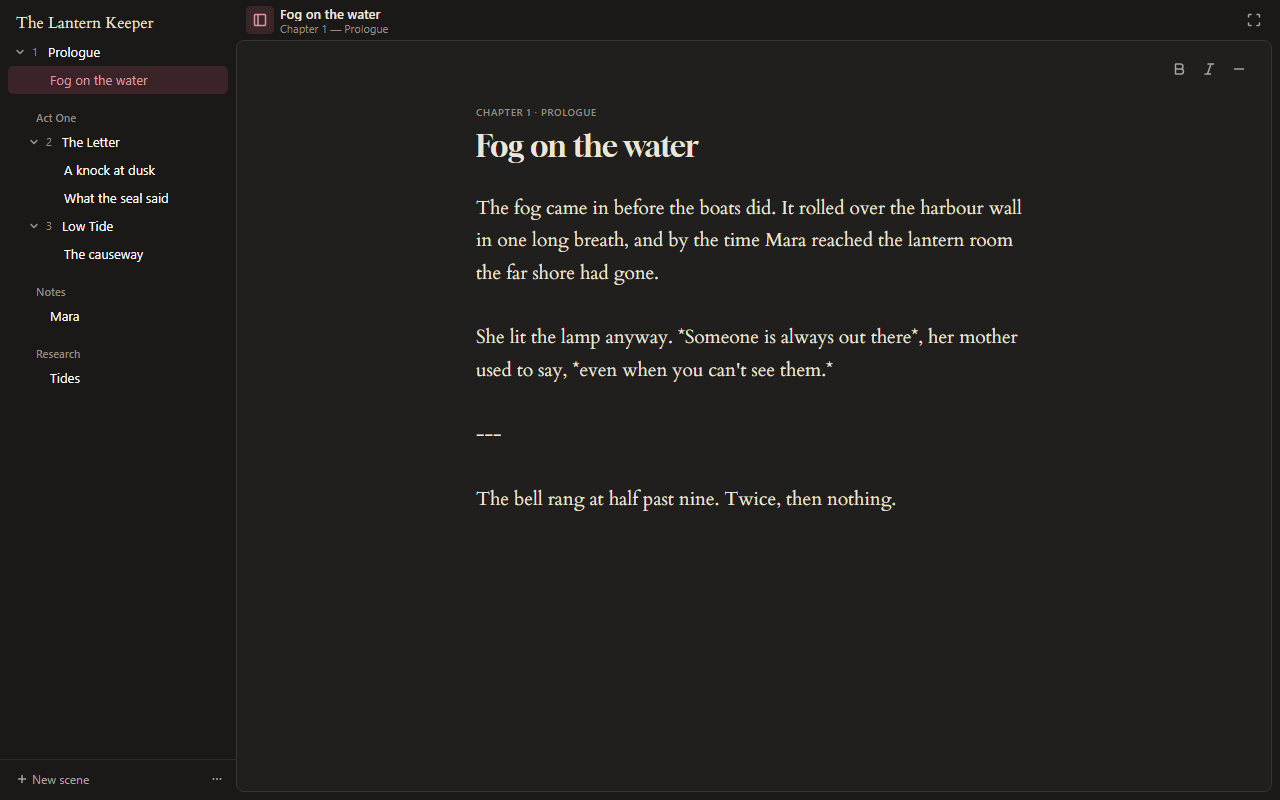
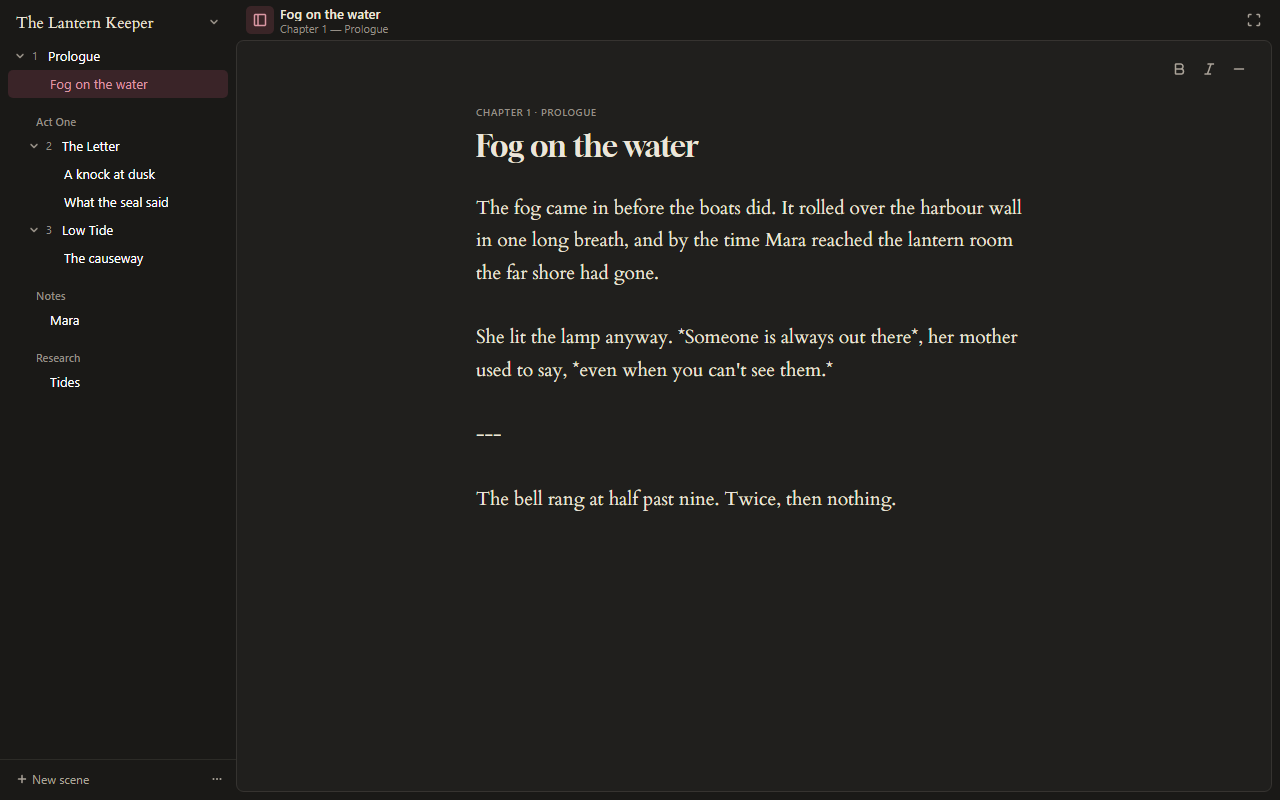
feat(workspace): close the project from the project menu
The project's title opens the prototype's project menu, with Close project. It writes what's unsaved first, and stays open with a notice when a change still can't be written.

Changed region(s): [[0.0, 0.0625, 0.1875, 0.4062], [0.0312, 0.4375, 0.0625, 0.5]]

diff --git a/src/Hedgequill.Desktop/Views/MainWindow.axaml.cs b/src/Hedgequill.Desktop/Views/MainWindow.axaml.cs
@@ -54,6 +54,22 @@ public partial class MainWindow : Window
         base.OnClosing(e);
     }
 
+    /// <summary>Close project: writes what's unsaved, then shows the Welcome screen. Text that can't be written keeps the project open, with its state showing why.</summary>
+    public void CloseProject()
+    {
+        if (_saver is { } saver)
+        {
+            saver.Flush();
+            if (saver.HasUnsaved)
+            {
+                Notice.Show("The project is still open", "Some changes couldn't be written to disk yet. Retry, or save a copy, from the save state at the top.");
+                return;
+            }
+        }
+
+        ShowWelcome();
+    }
+
     public void ShowWelcome()
     {
         _saver?.Flush();
@@ -92,6 +108,7 @@ public partial class MainWindow : Window
         var saver = new Saver(project, workspace.Commit, TimeSpan.FromMilliseconds(700));
         workspace.Edited += saver.Edited;
         workspace.FlushRequested += saver.Flush;
+        workspace.CloseRequested += CloseProject;
         saver.Reloaded += workspace.Reload;
         var status = new SaveStatus();
         status.Attach(saver, () => workspace.OpenPath);

diff --git a/src/Hedgequill.Desktop/Views/WorkspaceView.axaml.cs b/src/Hedgequill.Desktop/Views/WorkspaceView.axaml.cs
@@ -75,6 +75,7 @@ public partial class WorkspaceView : UserControl
         Navigator.AddHandler(PointerReleasedEvent, OnRelease, RoutingStrategies.Tunnel);
         Navigator.AddHandler(PointerCaptureLostEvent, (_, _) => EndDrag());
         NewScene.Click += (_, _) => AddScene();
+        ProjectMenu.Click += (_, _) => new MenuFlyout { ItemsSource = new List<Control> { Item("Close project", () => CloseRequested?.Invoke()) } }.ShowAt(ProjectMenu);
         NavigatorToggle.Click += (_, _) => ToggleNavigator();
         FocusButton.Click += (_, _) => ToggleFocus();
         Manuscript.OpenRequested += Select;
@@ -97,6 +98,9 @@ public partial class WorkspaceView : UserControl
 
     /// <summary>The open scene's or page's text changed in the editor.</summary>
     public event Action<Node>? Edited;
+
+    /// <summary>Close project, from the project menu: back to the Welcome screen.</summary>
+    public event Action? CloseRequested;
 
     /// <summary>Before anything moves or closes a file: write what's in the editor.</summary>
     public event Action? FlushRequested;

diff --git a/tests/Hedgequill.Tests/Desktop/EditorTests.cs b/tests/Hedgequill.Tests/Desktop/EditorTests.cs
@@ -231,6 +231,18 @@ public sealed class EditorTests : IDisposable
     });
 
     [Fact]
+    public Task Close_project_saves_and_goes_back_to_Welcome() => OnEditor((window, workspace, editor) =>
+    {
+        window.KeyTextInput("Last words. ");
+
+        window.CloseProject();
+
+        Assert.IsType<WelcomeView>(Find<ContentControl>(window, "Screen").Content);
+        Assert.Equal("Last words. Invented fog rolled in.", File.ReadAllText(_temp["stories/Tides/Chapter 1/Fog.md"]));
+        Assert.Contains("Tides", VisibleText(window));
+    });
+
+    [Fact]
     public Task An_empty_scene_says_Begin_here() => OnEditor((window, workspace, editor) =>
     {
         workspace.Select(workspace.Rows.Single(row => row.Title == "Ferry").Node);
